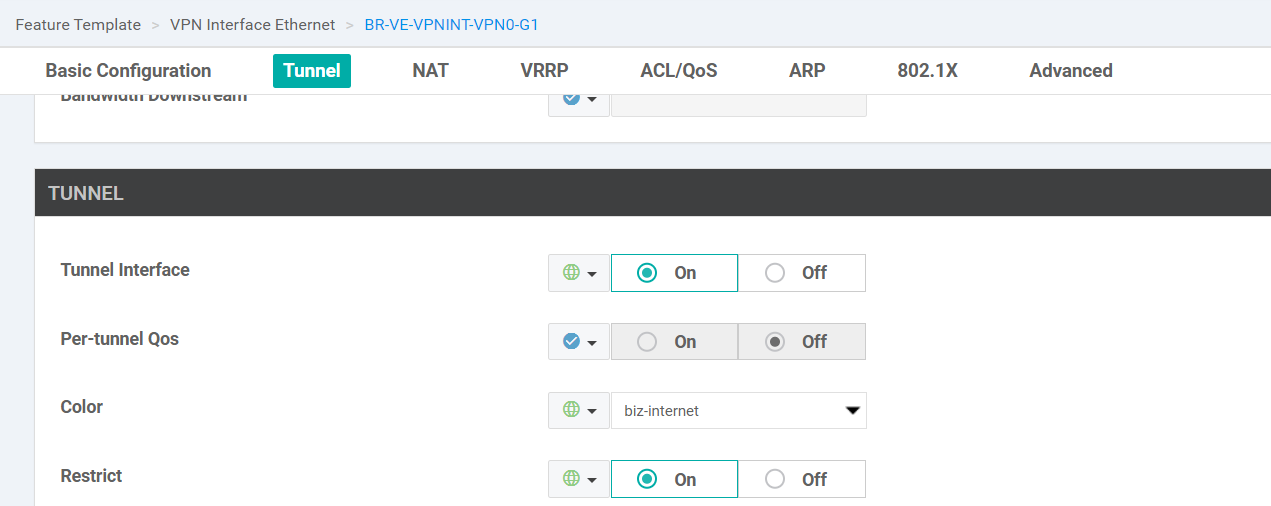
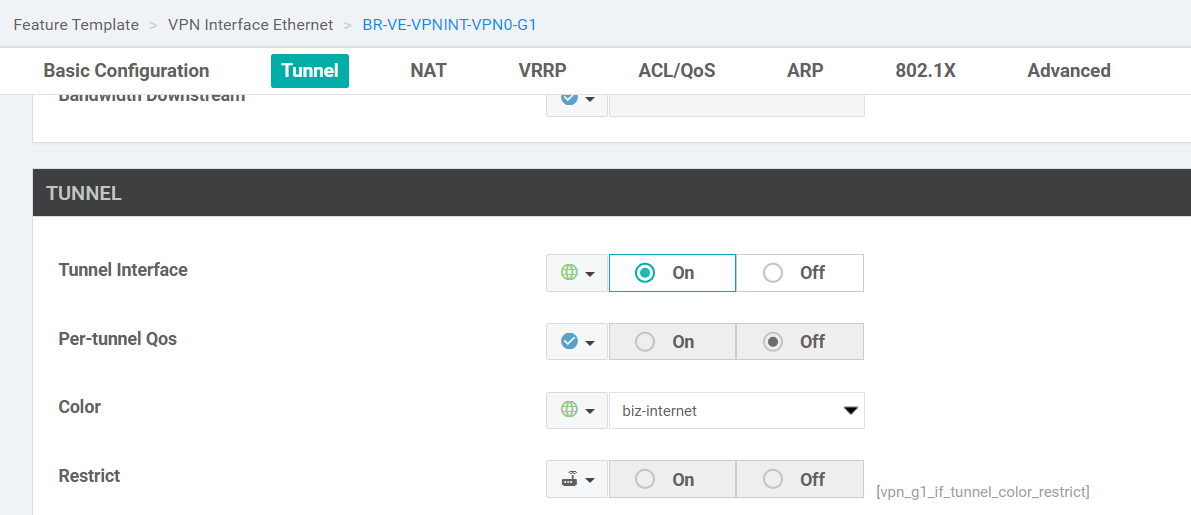
Add tunnel groups

diff --git a/SD-WAN/Chapter-3.md b/SD-WAN/Chapter-3.md
@@ -275,6 +275,10 @@ example:
 
 ![text](images/03-restrict-attribute.PNG)
 
+Push the configuration to the vEdge1 and vEdge2: Check the `restrict` box
+
+![text](images/03-restrict-attribute-attach.PNG)
+
 Let's see the BFD connections after setting `restrict` attribute. There are only three BFD connections: biz-internet
 <- -> biz-internet, mpls <- -> mpls, and lte <- -> lte.
 
@@ -288,5 +292,78 @@ SYSTEM IP        SITE ID  STATE       COLOR            COLOR            SOURCE I
 192.168.255.2    2        up          lte              lte              220.90.1.1                      220.90.2.2                      12426       ipsec  7           1000           0:00:48:20      0          
 ```
 
-
 ### Tunnel Groups
+
+Only tunnels with matching tunnel groups, or no tunnel group defined, will form BFD connections. If using tunnel
+groups, all sites should define tunnel groups.
+
+Let's involve now the DC1-vEdge1 with vEdge1, vEdge2. Each WAN Edge has three colors: mpls, biz-internet, lte. We
+want to restrict `biz-internet`, and set two tunnel groups:
+- Group 400: biz-internet
+- Group 500: mpls and lte
+
+Configure the tunnel groups for each VPN Interface:
+
+![text](images/03-tunnel-groups.PNG)
+
+Push the configuration to the vEdge1, vEdge2, and DC1-vEdge1: 
+- Check the `restrict` box for `biz-internet`
+- Set group accordingly for mpls, lte, and biz-internet.
+
+![text](images/03-tunnel-groups-attach.PNG)
+
+Let's see the BFD connections among three devices:
+
+```bash
+DV1-vEdge1# show bfd sessions 
+                                      SOURCE TLOC      REMOTE TLOC                                      DST PUBLIC                      DST PUBLIC         DETECT      TX                              
+SYSTEM IP        SITE ID  STATE       COLOR            COLOR            SOURCE IP                       IP                              PORT        ENCAP  MULTIPLIER  INTERVAL(msec) UPTIME          TRANSITIONS 
+-------------------------------------------------------------------------------------------------------------------------------------------------------------------------------------------------------------
+192.168.255.1    1        up          biz-internet     biz-internet     155.48.101.101                  155.48.1.1                      12346       ipsec  7           1000           0:00:06:57      1           
+192.168.255.1    1        up          mpls             mpls             172.16.101.101                  172.16.1.1                      12406       ipsec  7           1000           0:00:06:57      1           
+192.168.255.1    1        up          mpls             lte              172.16.101.101                  220.90.1.1                      12406       ipsec  7           1000           0:00:06:57      0           
+192.168.255.1    1        up          lte              mpls             220.90.101.101                  172.16.1.1                      12406       ipsec  7           1000           0:00:06:57      0           
+192.168.255.1    1        up          lte              lte              220.90.101.101                  220.90.1.1                      12406       ipsec  7           1000           0:00:06:57      1           
+192.168.255.2    2        up          biz-internet     biz-internet     155.48.101.101                  155.48.2.2                      12346       ipsec  7           1000           0:00:10:15      1           
+192.168.255.2    2        up          mpls             mpls             172.16.101.101                  172.16.2.2                      12426       ipsec  7           1000           0:00:19:30      0           
+192.168.255.2    2        up          mpls             lte              172.16.101.101                  220.90.2.2                      12426       ipsec  7           1000           0:00:10:15      0           
+192.168.255.2    2        up          lte              mpls             220.90.101.101                  172.16.2.2                      12426       ipsec  7           1000           0:00:10:14      0           
+192.168.255.2    2        up          lte              lte              220.90.101.101                  220.90.2.2                      12426       ipsec  7           1000           0:00:19:28      0      
+
+
+
+
+vEdge1# show bfd sessions
+                                      SOURCE TLOC      REMOTE TLOC                                      DST PUBLIC                      DST PUBLIC         DETECT      TX                              
+SYSTEM IP        SITE ID  STATE       COLOR            COLOR            SOURCE IP                       IP                              PORT        ENCAP  MULTIPLIER  INTERVAL(msec) UPTIME          TRANSITIONS 
+-------------------------------------------------------------------------------------------------------------------------------------------------------------------------------------------------------------
+192.168.255.2    2        up          biz-internet     biz-internet     155.48.1.1                      155.48.2.2                      12346       ipsec  7           1000           0:00:00:17      1           
+192.168.255.2    2        up          mpls             mpls             172.16.1.1                      172.16.2.2                      12426       ipsec  7           1000           0:00:00:17      1           
+192.168.255.2    2        up          mpls             lte              172.16.1.1                      220.90.2.2                      12426       ipsec  7           1000           0:00:00:17      2           
+192.168.255.2    2        up          lte              mpls             220.90.1.1                      172.16.2.2                      12426       ipsec  7           1000           0:00:00:17      0           
+192.168.255.2    2        up          lte              lte              220.90.1.1                      220.90.2.2                      12426       ipsec  7           1000           0:00:00:17      1           
+192.168.255.101  101      up          biz-internet     biz-internet     155.48.1.1                      155.48.101.101                  12366       ipsec  7           1000           0:00:00:17      1           
+192.168.255.101  101      up          mpls             mpls             172.16.1.1                      172.16.101.101                  12366       ipsec  7           1000           0:00:00:17      1           
+192.168.255.101  101      up          mpls             lte              172.16.1.1                      220.90.101.101                  12366       ipsec  7           1000           0:00:00:17      0           
+192.168.255.101  101      up          lte              mpls             220.90.1.1                      172.16.101.101                  12366       ipsec  7           1000           0:00:00:17      0           
+192.168.255.101  101      up          lte              lte              220.90.1.1                      220.90.101.101                  12366       ipsec  7           1000           0:00:00:17      1           
+
+
+vEdge2# show bfd sessions 
+                                      SOURCE TLOC      REMOTE TLOC                                      DST PUBLIC                      DST PUBLIC         DETECT      TX                              
+SYSTEM IP        SITE ID  STATE       COLOR            COLOR            SOURCE IP                       IP                              PORT        ENCAP  MULTIPLIER  INTERVAL(msec) UPTIME          TRANSITIONS 
+-------------------------------------------------------------------------------------------------------------------------------------------------------------------------------------------------------------
+192.168.255.1    1        up          biz-internet     biz-internet     155.48.2.2                      155.48.1.1                      12346       ipsec  7           1000           0:00:08:06      1           
+192.168.255.1    1        up          mpls             mpls             172.16.2.2                      172.16.1.1                      12406       ipsec  7           1000           0:00:08:06      1           
+192.168.255.1    1        up          mpls             lte              172.16.2.2                      220.90.1.1                      12406       ipsec  7           1000           0:00:08:06      2           
+192.168.255.1    1        up          lte              mpls             220.90.2.2                      172.16.1.1                      12406       ipsec  7           1000           0:00:08:06      0           
+192.168.255.1    1        up          lte              lte              220.90.2.2                      220.90.1.1                      12406       ipsec  7           1000           0:00:08:06      1           
+192.168.255.101  101      up          biz-internet     biz-internet     155.48.2.2                      155.48.101.101                  12366       ipsec  7           1000           0:00:11:25      1           
+192.168.255.101  101      up          mpls             mpls             172.16.2.2                      172.16.101.101                  12366       ipsec  7           1000           0:00:20:40      0           
+192.168.255.101  101      up          mpls             lte              172.16.2.2                      220.90.101.101                  12366       ipsec  7           1000           0:00:11:25      0           
+192.168.255.101  101      up          lte              mpls             220.90.2.2                      172.16.101.101                  12366       ipsec  7           1000           0:00:11:24      0           
+192.168.255.101  101      up          lte              lte              220.90.2.2                      220.90.101.101                  12366       ipsec  7           1000           0:00:20:39      0           
+
+```
+
+## Network Address Translation
